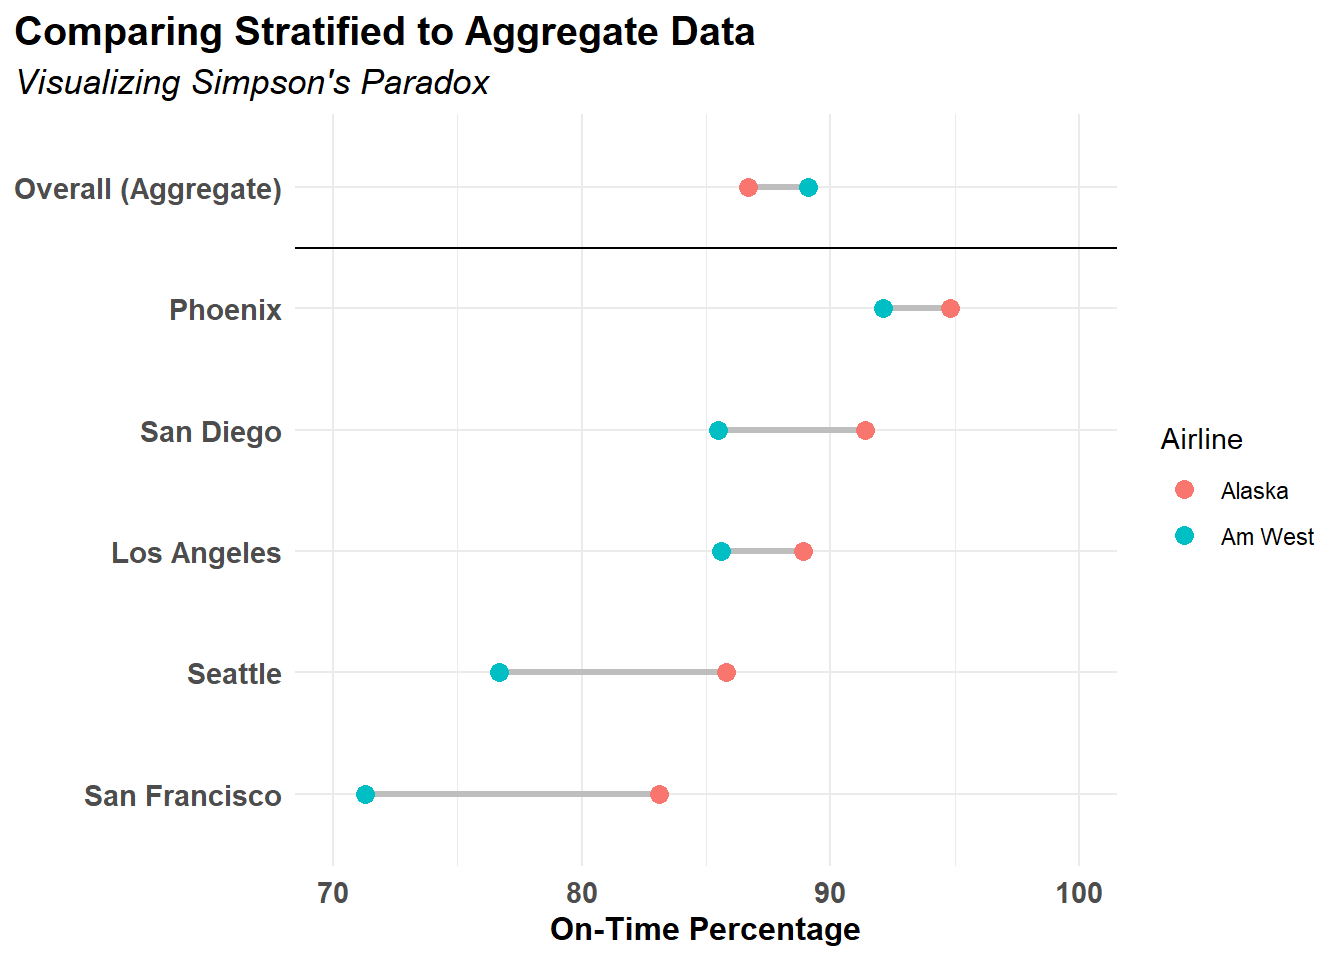
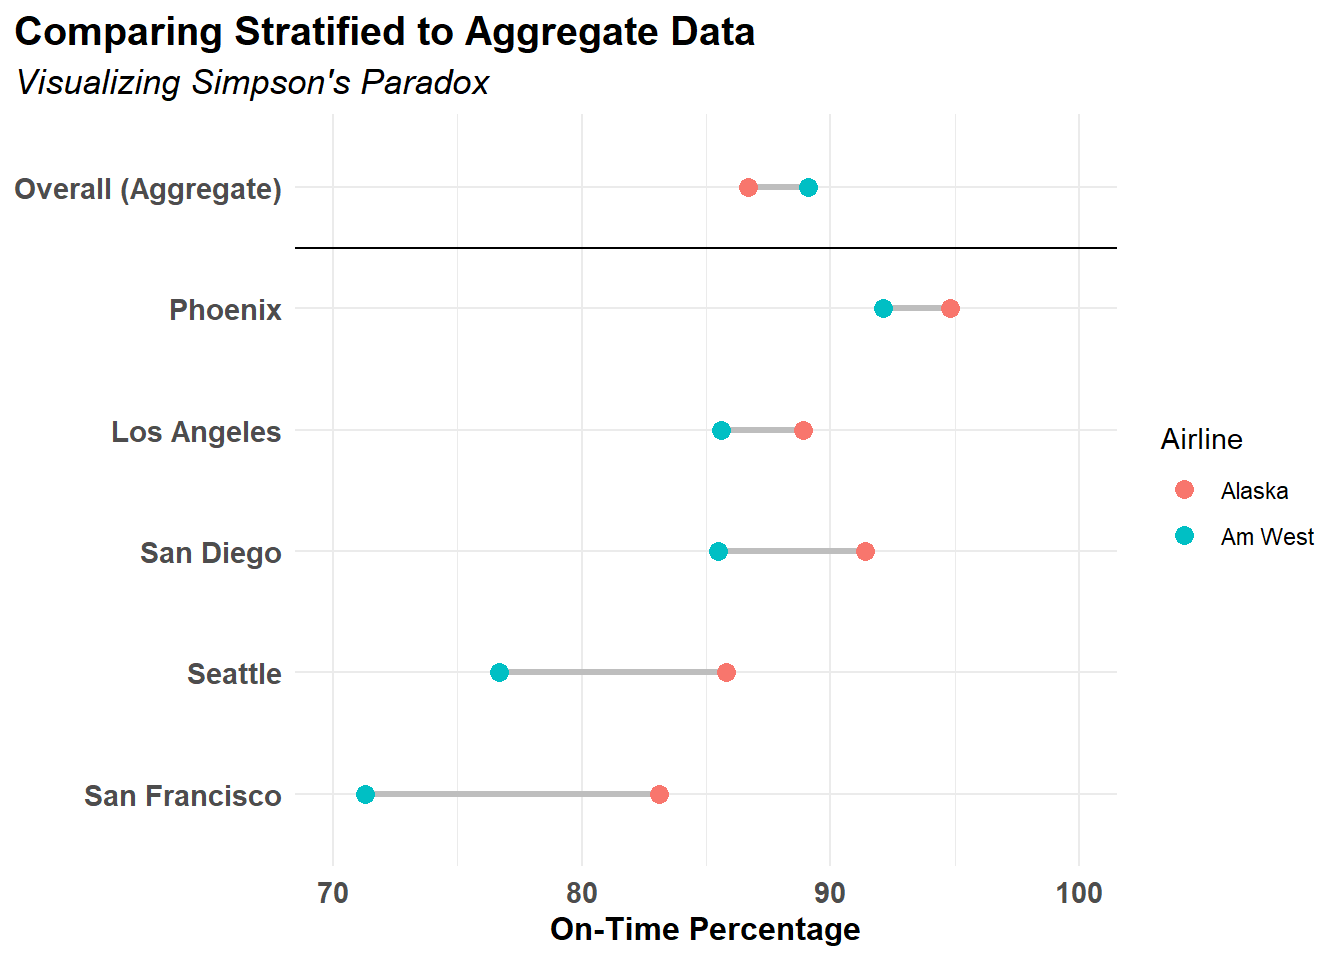
final tweaks -> render

diff --git a/Assignment5A-KCH-Codebase.html b/Assignment5A-KCH-Codebase.html
@@ -408,7 +408,7 @@ pre > code.sourceCode > span > a:first-child::before { text-decoration: underlin
 <span id="cb4-18"><a href="#cb4-18" aria-hidden="true" tabindex="-1"></a></span>
 <span id="cb4-19"><a href="#cb4-19" aria-hidden="true" tabindex="-1"></a>df_combined <span class="ot">&lt;-</span> df_combined <span class="sc">|&gt;</span></span>
 <span id="cb4-20"><a href="#cb4-20" aria-hidden="true" tabindex="-1"></a>  <span class="fu">mutate</span>(<span class="at">airline =</span> <span class="fu">str_to_title</span>(airline),</span>
-<span id="cb4-21"><a href="#cb4-21" aria-hidden="true" tabindex="-1"></a>         <span class="at">destination =</span> <span class="fu">factor</span>(destination, <span class="at">levels =</span> <span class="fu">c</span>(<span class="st">"San Francisco"</span>, <span class="st">"Seattle"</span>, <span class="st">"Los Angeles"</span>, <span class="st">"San Diego"</span>, <span class="st">"Phoenix"</span>, <span class="st">"Overall (Aggregate)"</span>))) </span>
+<span id="cb4-21"><a href="#cb4-21" aria-hidden="true" tabindex="-1"></a>         <span class="at">destination =</span> <span class="fu">factor</span>(destination, <span class="at">levels =</span> <span class="fu">c</span>(<span class="st">"San Francisco"</span>, <span class="st">"Seattle"</span>, <span class="st">"San Diego"</span>, <span class="st">"Los Angeles"</span>, <span class="st">"Phoenix"</span>, <span class="st">"Overall (Aggregate)"</span>))) </span>
 <span id="cb4-22"><a href="#cb4-22" aria-hidden="true" tabindex="-1"></a></span>
 <span id="cb4-23"><a href="#cb4-23" aria-hidden="true" tabindex="-1"></a>df_viz <span class="ot">&lt;-</span> df_wider <span class="sc">|&gt;</span></span>
 <span id="cb4-24"><a href="#cb4-24" aria-hidden="true" tabindex="-1"></a>  <span class="fu">mutate</span>(<span class="at">diff =</span> alaska <span class="sc">-</span> am_west) <span class="sc">|&gt;</span></span>
